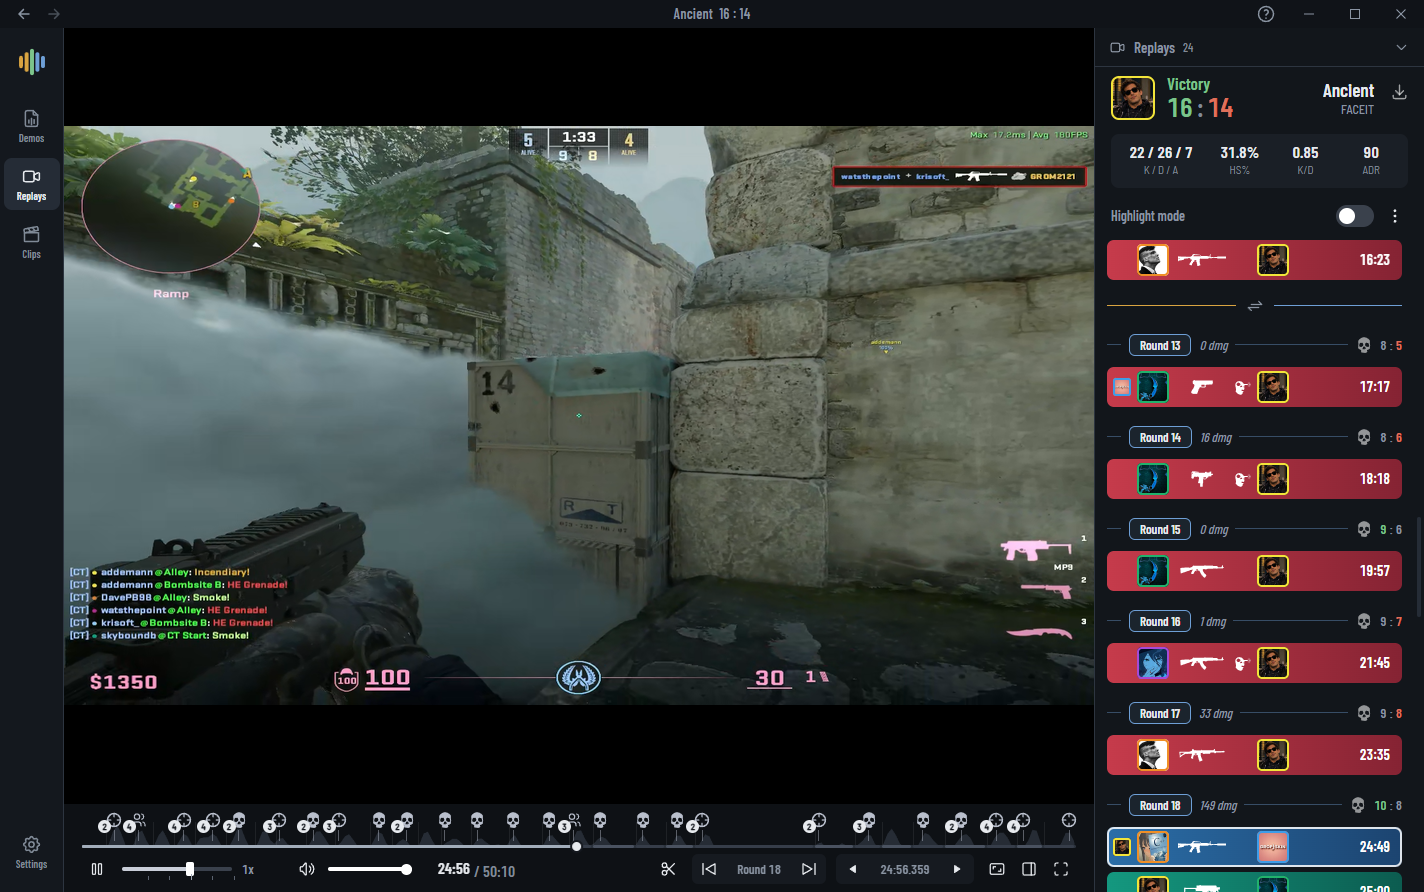
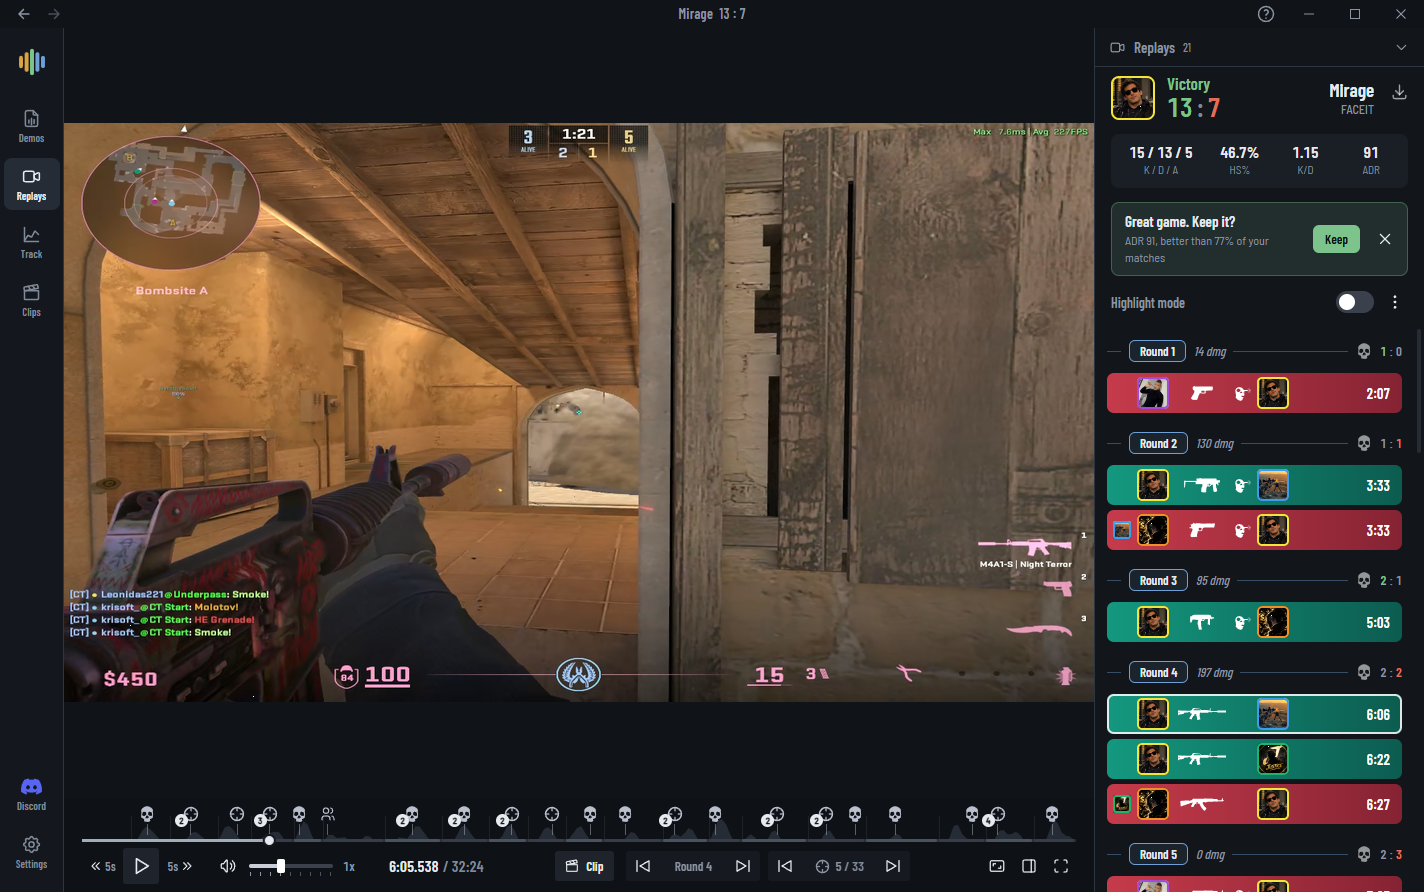
new screenshots and shorter readme

diff --git a/README.md b/README.md
@@ -1,8 +1,8 @@
 # cs2voice
 
-A Windows app for CS2 voice chat in demos. It finds the Counter-Strike 2 demos on your PC, plays each player's voice chat, and shows the match: stats, rounds, a 2D radar replay, Steam recordings, clips, crosshairs and skins.
+A Windows app for CS2 demos. Play each player's voice chat, go through the match, and follow your own stats from one demo to the next.
 
-Website: https://krisoft20.github.io/cs2voice/
+Website: https://krisoft20.github.io/cs2voice/ · Discord: https://discord.gg/4vsvva5GHM
 
 ## Download
 
@@ -26,25 +26,19 @@ cs2voice.com is a different, paid web service and has nothing to do with this ap
 
 ## Demos
 
-Finds demos in the CS2 replays folder, Downloads and folders you add, `.dem` and `.dem.zst`, FACEIT and matchmaking. Cleanup moves old and duplicate demos to the Recycle Bin.
+Finds `.dem` and `.dem.zst` files from FACEIT and matchmaking in the CS2 replays folder, Downloads and any folder you add.
 
 ### Overview
 
-Both teams, match awards, and "Watch in game", which copies the console command that plays the demo with only the voices you picked.
+Both teams with ratings, match awards, and "Watch in game", which copies the console command that plays the demo with only the voices you picked.
 
 ![Overview](docs/overview.png)
 
 ### Players
 
-Every stat drawn against how players usually score.
+Every stat drawn against how players usually score. Click one to see the moments behind it.
 
 ![Players](docs/players.png)
-
-### Details
-
-How each round ended, the kill feed, gear and damage.
-
-![Details](docs/details.png)
 
 ### Voices
 
@@ -52,35 +46,25 @@ Every player's voice, round by round, next to the kills. Play everyone, one team
 
 ![Voices](docs/voices.png)
 
-### Radar
-
-2D replay with grenades, smokes, fires and the bomb. Click a grenade to copy a `setpos` line to where it was thrown from.
-
-![Radar](docs/radar.png)
-
-### Crosshairs
-
-Every player's crosshair at game size, with a copy button for the share code.
-
-![Crosshairs](docs/crosshairs.png)
-
-### Skins
-
-Every player's skins with wear, float, StatTrak and stickers.
-
-![Skins](docs/skins.png)
+The match view also has Details (rounds, kill feed, damage), a 2D Radar replay, Crosshairs and Skins.
 
 ## Replays
 
-Steam's background recording of your match, lined up with the demo's rounds and kills. Keep a copy before Steam records over it.
+Steam's background recording of your match, lined up with the demo's rounds and kills.
 
 ![Replays](docs/replays.png)
 
+## Track
+
+Your own numbers across every demo: rating, win rate, T and CT side, maps, clutches, weapons and FACEIT ELO.
+
+![Track](docs/track.png)
+
 ## Clips
 
-Cut a moment into an MP4 sized for Discord (20, 50 or 500 MB) and paste it straight in.
+Cut a moment into an MP4 small enough for Discord.
 
-![Clips](docs/clip.png)
+![Clips](docs/clips.png)
 
 ## Privacy
 
@@ -88,9 +72,12 @@ Everything is read from the demo files on your PC. Nothing is uploaded. cs2voice
 
 - check GitHub for a new version (can be turned off)
 - read the public Steam profiles of the players in your demos, for avatars and account age
+- read FACEIT for the level and ELO of players in your FACEIT demos, and for your own ELO history (the same switch in Settings turns off both this and the Steam lookups)
 - download the WebView2 Runtime, if it is missing and you agree
 
 Its own data (caches, settings, log) is in `%LOCALAPPDATA%\cs2voice`.
+
+One file, `gamestate_integration_cs2voice.cfg`, is added to the CS2 `cfg` folder. With it CS2 sends the state of your match to the app on your own PC (127.0.0.1), so background work can pause while you play. This is Valve's game state integration. Nothing leaves your computer.
 
 ## Building
 
